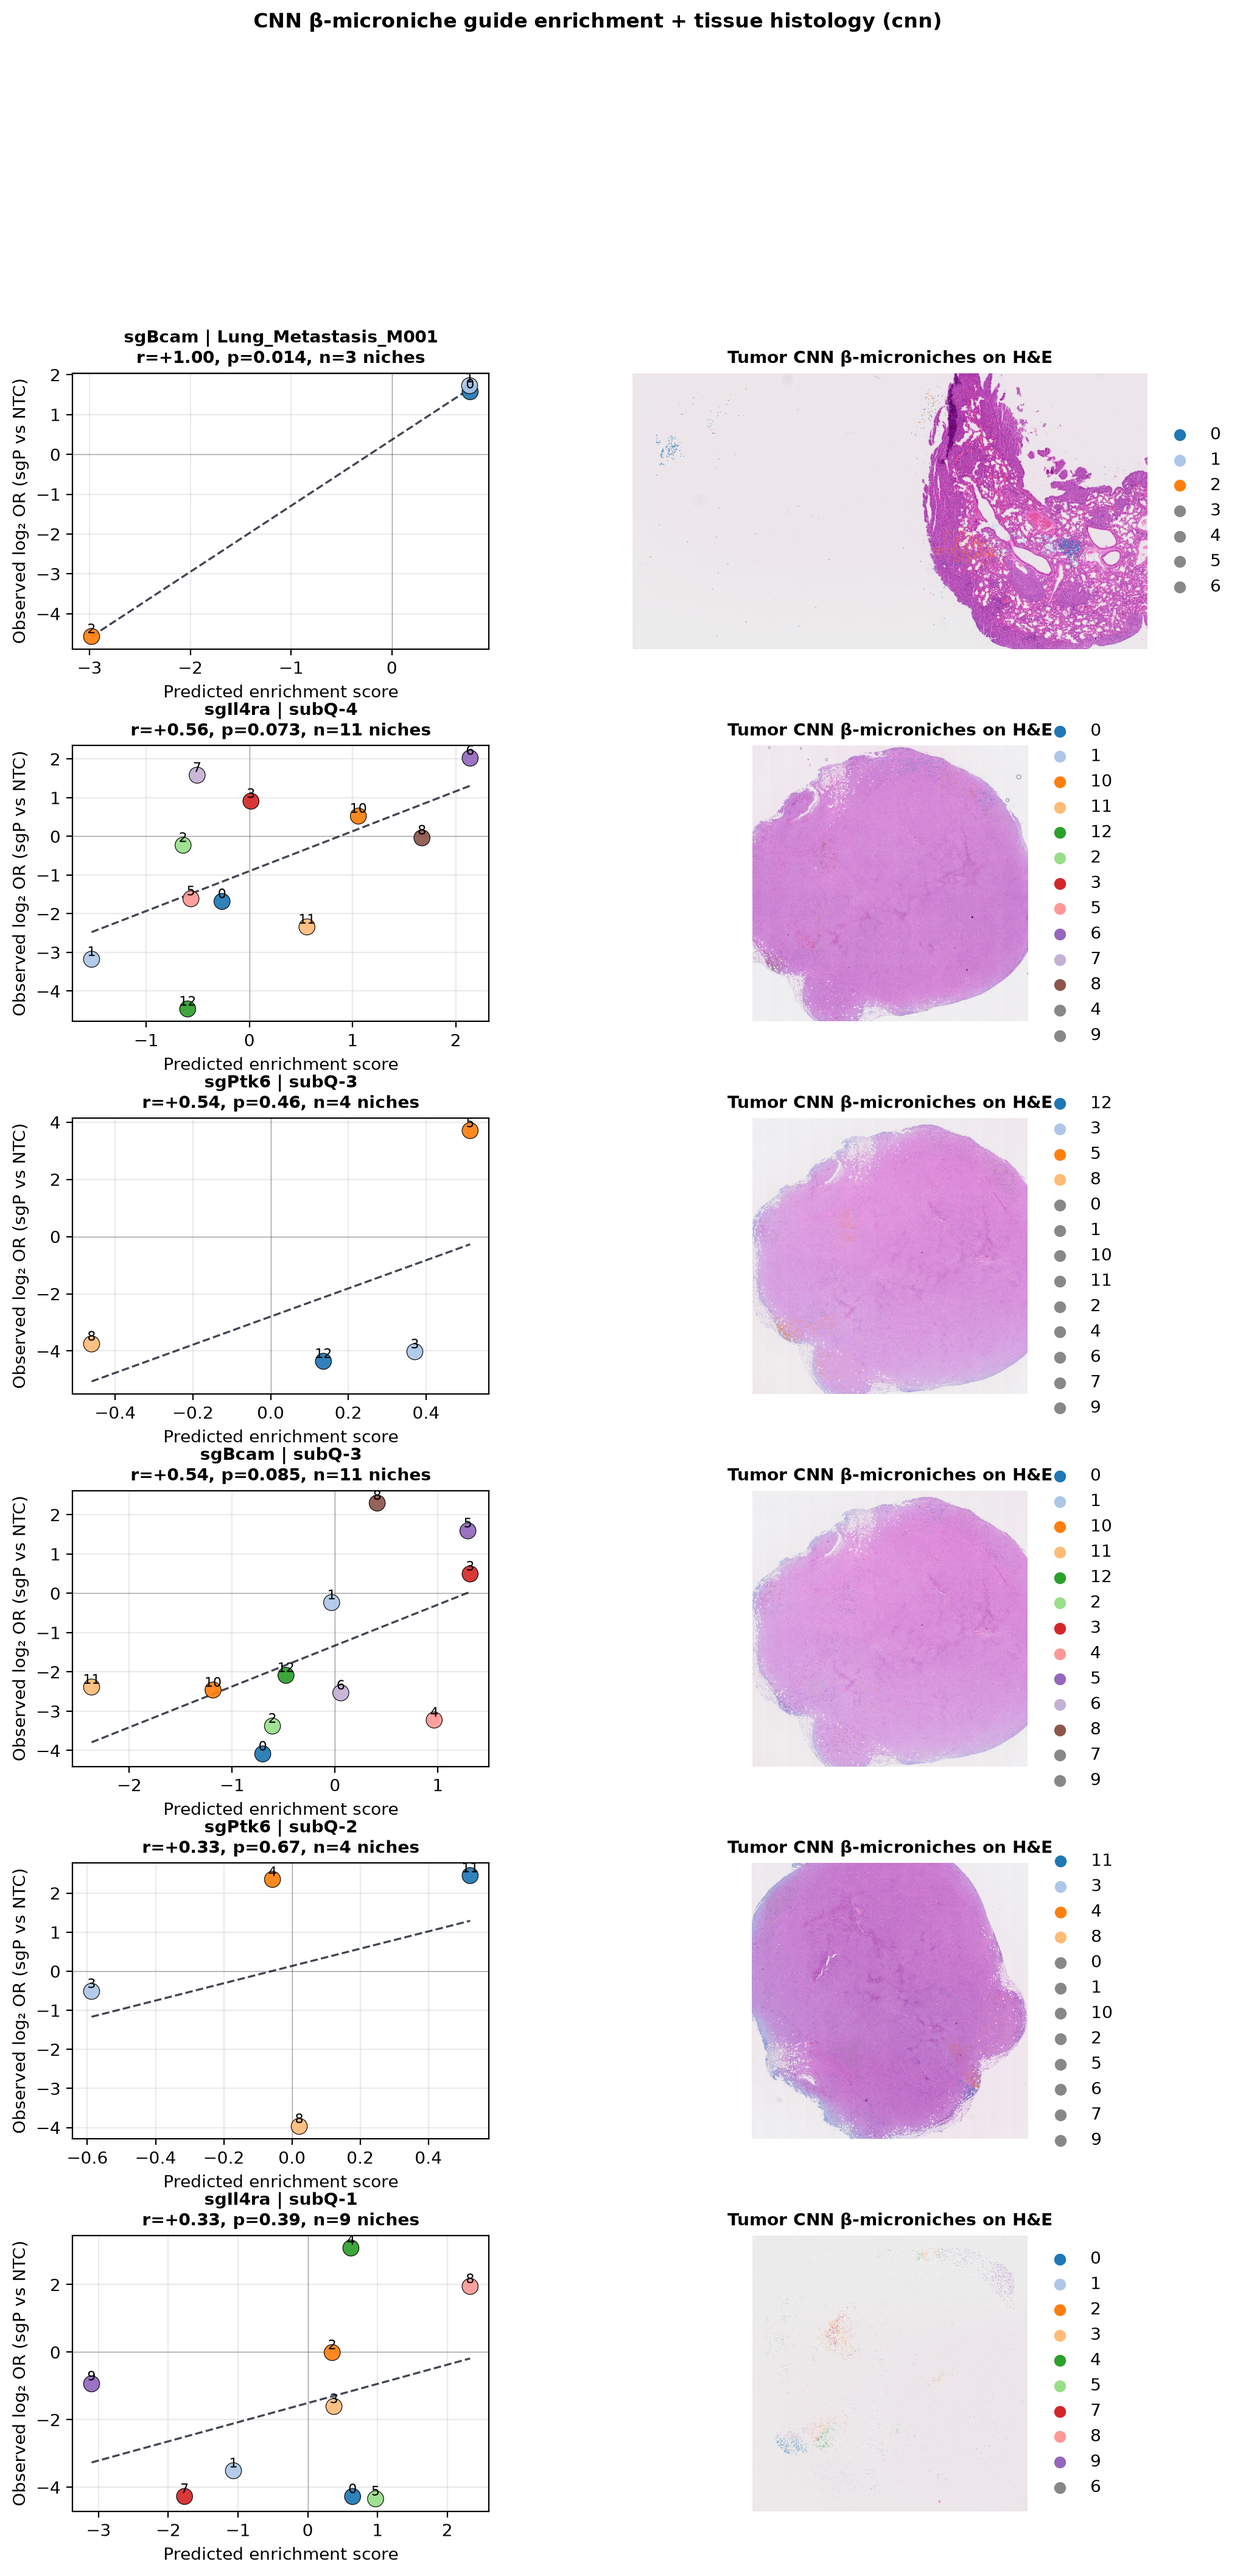
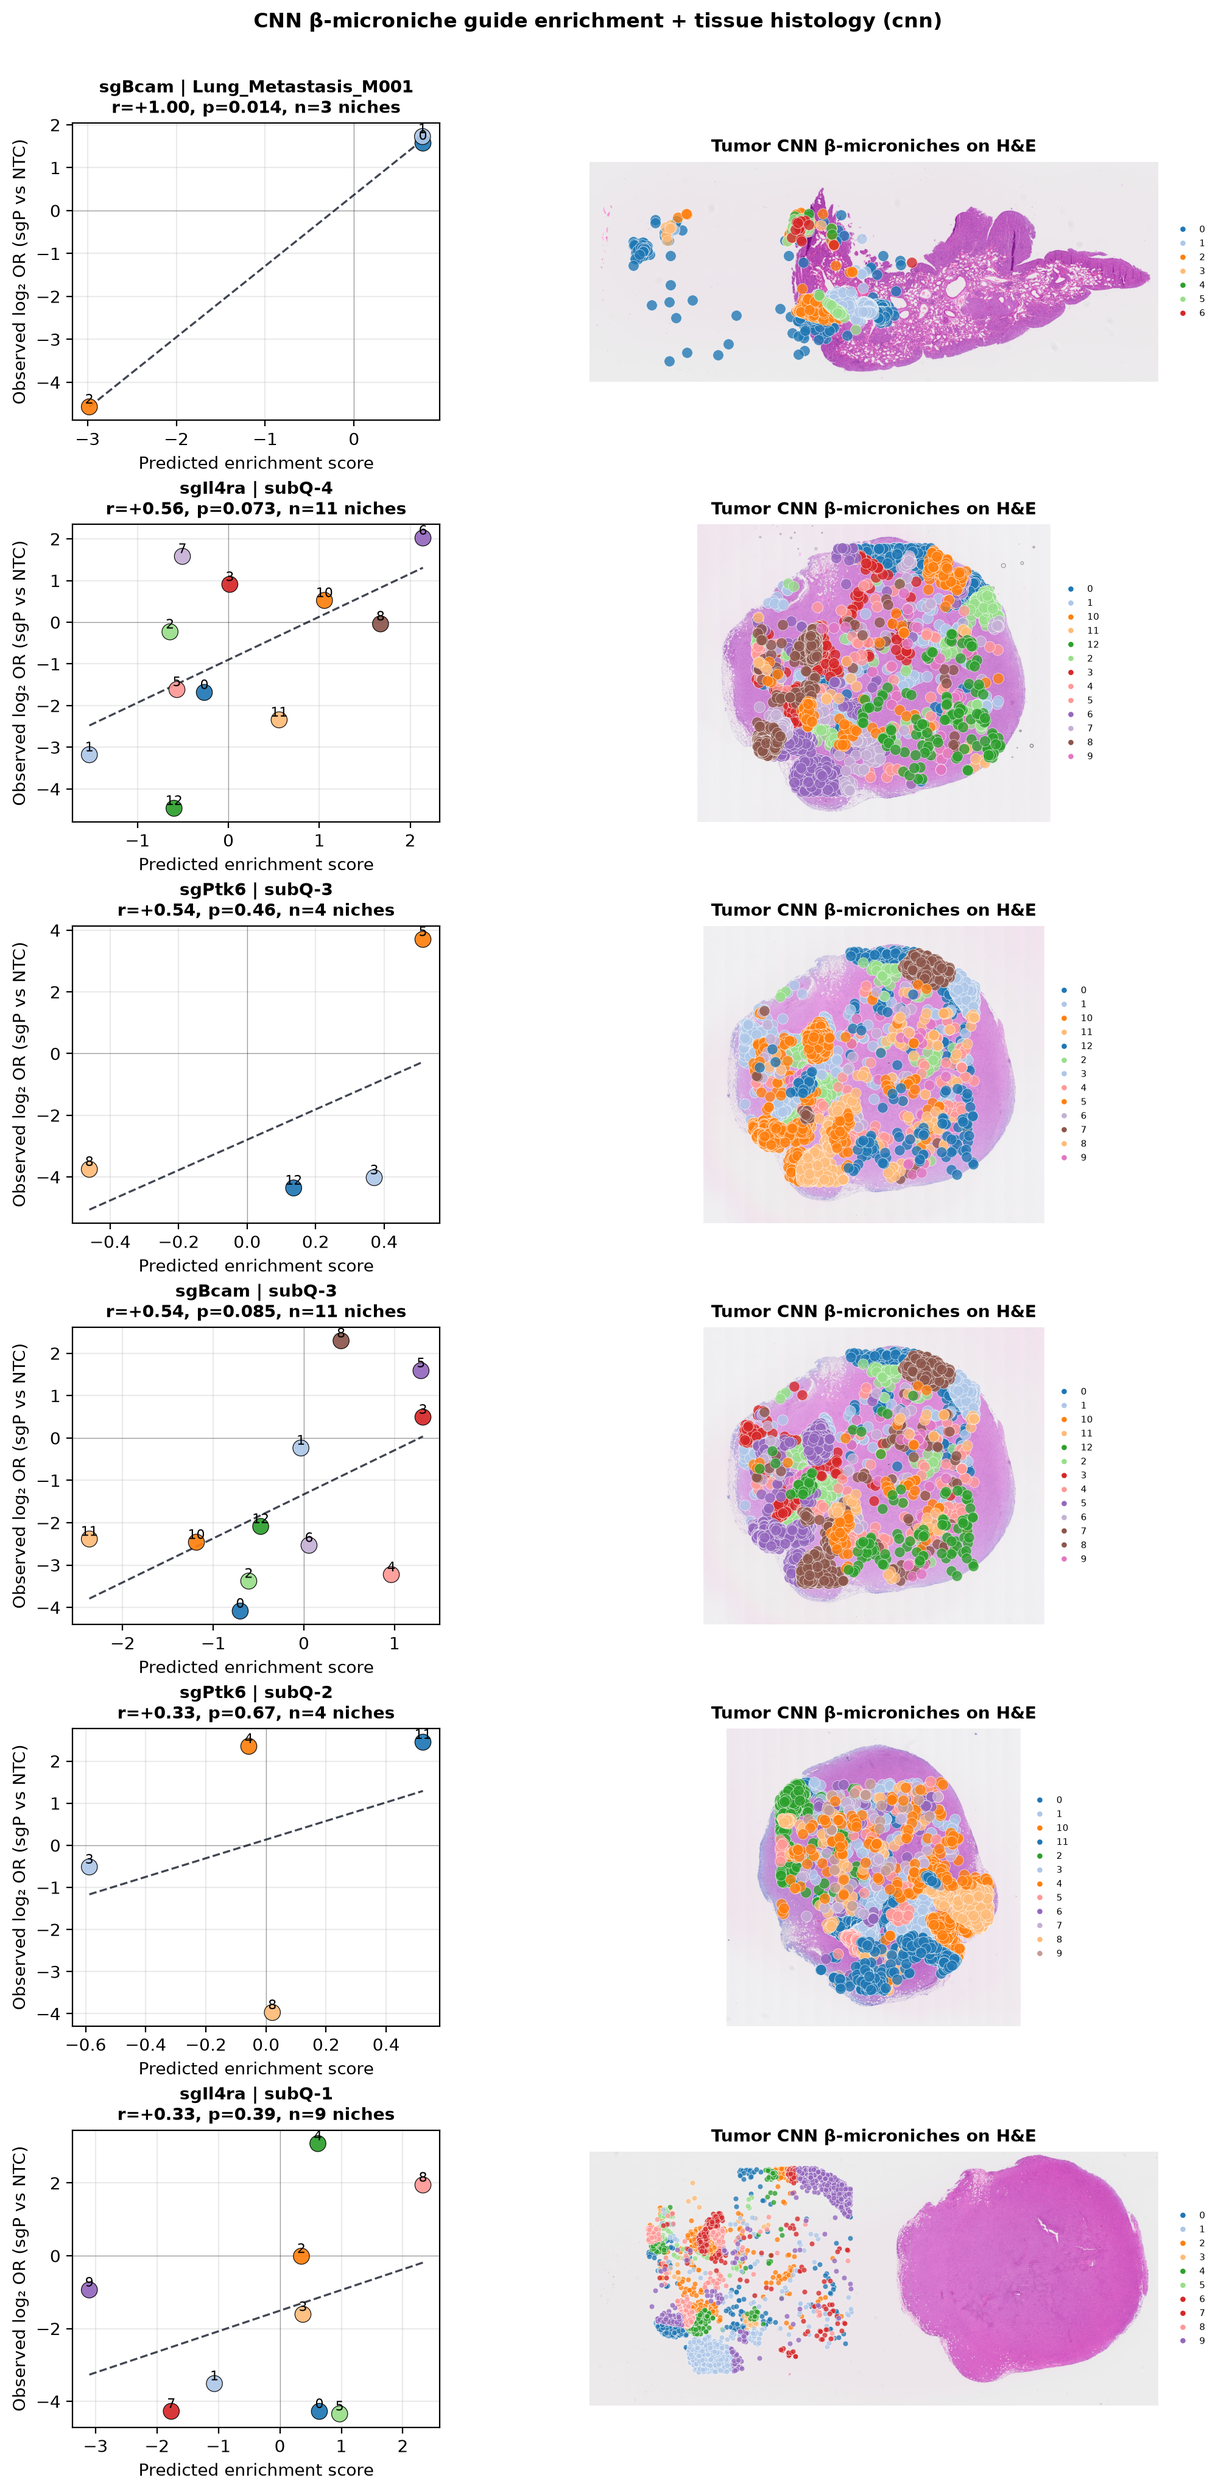
Fix microniche visibility on H&E enrichment scatter panels
Replace sc.pl.spatial with cell-sized matplotlib overlay on hires
coordinates, tune spot size by cell density, and resolve mc38 histology
paths to the shared analysis/mc38_visiumhd download location.

diff --git a/analysis/spacseq_tardis_validation/scripts/spatial_histology.py b/analysis/spacseq_tardis_validation/scripts/spatial_histology.py
@@ -10,12 +10,12 @@ from pathlib import Path
 import pandas as pd
 import numpy as np
 import scanpy as sc
+import matplotlib.pyplot as plt
 from matplotlib.image import imread
 
 HERE = Path(__file__).resolve().parent
 ROOT = HERE.parent
-REPO = ROOT.parent.parent
-DEFAULT_MC38 = REPO / "analysis" / "mc38_visiumhd"
+DEFAULT_MC38 = (ROOT.parent / "mc38_visiumhd").resolve()
 DOWNLOAD_SCRIPT = DEFAULT_MC38 / "download_spac_data.py"
 
 LUNG_SLICES = {"Lung_Metastasis_M001", "Lung_Metastasis_M002", "Lung_Metastasis_M003"}
@@ -30,7 +30,7 @@ def raw_dir(mc38_dir: Path, slice_id: str) -> Path:
 
 
 def histology_paths(mc38_dir: Path, slice_id: str) -> tuple[Path, Path]:
-    base = raw_dir(mc38_dir, slice_id)
+    base = Path(mc38_dir).resolve() / slice_id / "raw" / "extracted"
     return base / "tissue_hires_image.png", base / "scalefactors_json.json"
 
 
@@ -46,6 +46,7 @@ def ensure_histology(
     skip_download: bool = False,
 ) -> Path:
     """Ensure tissue_hires_image.png + scalefactors exist; download raw zip if needed."""
+    mc38_dir = Path(mc38_dir).resolve()
     img, sf = histology_paths(mc38_dir, slice_id)
     if histology_ready(mc38_dir, slice_id):
         return img.parent
@@ -85,6 +86,7 @@ def attach_histology(
     img_key: str = "hires",
 ) -> sc.AnnData:
     """Populate adata.uns['spatial'] from SPAC portal raw_output bundle."""
+    mc38_dir = Path(mc38_dir).resolve()
     ensure_histology(slice_id, mc38_dir, skip_download=skip_download)
     img_path, sf_path = histology_paths(mc38_dir, slice_id)
     img = imread(img_path)
@@ -111,3 +113,77 @@ def tumor_adata_from_parquet(parquet_path: Path, slice_id: str) -> sc.AnnData:
     adata.obsm["spatial"] = df[["x", "y"]].to_numpy(dtype=np.float64)
     adata.obs["slice_id"] = slice_id
     return adata
+
+
+def hires_coords(adata: sc.AnnData, library_id: str) -> np.ndarray:
+    scalef = float(adata.uns["spatial"][library_id]["scalefactors"]["tissue_hires_scalef"])
+    return adata.obsm["spatial"].astype(np.float64) * scalef
+
+
+def default_spot_size(adata: sc.AnnData, library_id: str) -> float:
+    sf = adata.uns["spatial"][library_id]["scalefactors"]
+    scalef = float(sf["tissue_hires_scalef"])
+    diam_hires = float(sf.get("spot_diameter_fullres", 50.0)) * scalef
+    density = max(adata.n_obs, 1)
+    base = max(diam_hires * 1.6, 2.5)
+    scale = float(np.clip((2200.0 / density) ** 0.35, 0.45, 1.25))
+    return float(np.clip((base * scale) ** 2, 10.0, 90.0))
+
+
+def plot_microniche_on_he(
+    adata: sc.AnnData,
+    color_key: str,
+    ax,
+    library_id: str,
+    palette: dict[str, object],
+    *,
+    img_alpha: float = 1.0,
+    spot_size: float | None = None,
+    spot_alpha: float = 0.78,
+    edgecolor: str = "white",
+    edge_width: float = 0.25,
+    title: str = "",
+    legend: bool = True,
+    legend_fontsize: float = 6.0,
+) -> None:
+    """Draw H&E background with visible cell-level microniche overlay."""
+    lib = adata.uns["spatial"][library_id]
+    img = lib["images"]["hires"]
+    xy = hires_coords(adata, library_id)
+    size = spot_size if spot_size is not None else default_spot_size(adata, library_id)
+
+    ax.imshow(img, origin="upper", interpolation="bilinear", alpha=img_alpha, zorder=0)
+    labels = adata.obs[color_key].astype(str)
+    for lab in labels.unique():
+        if lab in ("nan", "unassigned"):
+            continue
+        mask = labels == lab
+        ax.scatter(
+            xy[mask, 0],
+            xy[mask, 1],
+            s=size,
+            c=[palette.get(lab, "#888888")],
+            alpha=spot_alpha,
+            edgecolors=edgecolor,
+            linewidths=edge_width,
+            rasterized=True,
+            zorder=2,
+        )
+    ax.set_aspect("equal")
+    ax.axis("off")
+    if title:
+        ax.set_title(title, fontsize=10, fontweight="bold")
+    if legend:
+        handles = []
+        for lab in sorted(l for l in labels.unique() if l not in ("nan", "unassigned")):
+            handles.append(
+                plt.Line2D(
+                    [0], [0], marker="o", color="w", markerfacecolor=palette.get(lab, "#888888"),
+                    markersize=max(3.0, legend_fontsize * 0.75), label=lab,
+                )
+            )
+        if handles:
+            ax.legend(
+                handles=handles, loc="center left", bbox_to_anchor=(1.02, 0.5),
+                fontsize=legend_fontsize, frameon=False, borderaxespad=0.0,
+            )

diff --git a/analysis/spacseq_tardis_validation/scripts/nb_viz.py b/analysis/spacseq_tardis_validation/scripts/nb_viz.py
@@ -425,11 +425,10 @@ def plot_cnn_enrichment_scatter_with_histology(
     mc38_dir=None,
     slice_filter: str | None = None,
     perturb_filter: str | None = None,
-    spot_size: float = 1.4,
+    spot_size: float | None = None,
     figsize: tuple[float, float] | None = None,
 ) -> tuple[plt.Figure, np.ndarray]:
-    """Side-by-side enrichment scatter and sc.pl.spatial microniche maps on H&E."""
-    import scanpy as sc
+    """Side-by-side enrichment scatter and microniche maps on H&E."""
     from pathlib import Path
 
     import spatial_histology as sh
@@ -455,7 +454,7 @@ def plot_cnn_enrichment_scatter_with_histology(
         n, 2,
         figsize=figsize or (11.5, 3.8 * n),
         squeeze=False,
-        gridspec_kw={"width_ratios": [1.05, 1.35], "wspace": 0.28, "hspace": 0.35},
+        gridspec_kw={"width_ratios": [1.0, 1.55], "wspace": 0.32, "hspace": 0.35},
     )
 
     for i, (_, row) in enumerate(pairs.iterrows()):
@@ -509,30 +508,27 @@ def plot_cnn_enrichment_scatter_with_histology(
         else:
             ct = pool.copy()
         ct.obs["microniche"] = ct.obs["cnn_leiden"].astype(str).str.split("|").str[-1]
-        order = [str(x).split("|")[-1] for x in sub["niche"].astype(str)]
-        extra = sorted(set(ct.obs["microniche"].astype(str)) - set(order))
-        ct.obs["microniche"] = pd.Categorical(ct.obs["microniche"], categories=order + extra, ordered=True)
-        palette = {lab.split("|")[-1]: colors.get(lab, "#888888") for lab in colors}
-        for lab in ct.obs["microniche"].astype(str).unique():
-            palette.setdefault(lab, "#888888")
+        niche_colors = _microniche_color_map(ct.obs["cnn_leiden"].astype(str))
+        palette = {
+            str(n).split("|")[-1]: niche_colors.get(str(n), "#888888")
+            for n in ct.obs["cnn_leiden"].astype(str).unique()
+        }
+        for lab in colors:
+            palette[str(lab).split("|")[-1]] = colors[lab]
 
         try:
             sh.attach_histology(ct, sl, mc38)
-            sc.pl.spatial(
+            sh.plot_microniche_on_he(
                 ct,
-                color="microniche",
-                library_id=sl,
-                img_key="hires",
-                ax=ax_sp,
-                show=False,
-                size=spot_size,
-                alpha=0.88,
-                palette=palette,
-                title="",
-                legend_loc="right margin",
-                frameon=False,
+                "microniche",
+                ax_sp,
+                sl,
+                palette,
+                spot_size=spot_size,
+                title="Tumor CNN β-microniches on H&E",
+                legend=True,
+                legend_fontsize=5.5,
             )
-            ax_sp.set_title(f"Tumor CNN β-microniches on H&E", fontsize=10, fontweight="bold")
         except Exception as exc:
             ax_sp.text(0.5, 0.5, f"Histology unavailable\n{exc}", ha="center", va="center", transform=ax_sp.transAxes)
             ax_sp.axis("off")

diff --git a/analysis/spacseq_tardis_validation/scripts/23_cnn_microniche_enrichment.py b/analysis/spacseq_tardis_validation/scripts/23_cnn_microniche_enrichment.py
@@ -335,7 +335,7 @@ def main() -> None:
     ap.add_argument("--slices", nargs="+", default=SUBQ_SLICES + [LUNG_SLICE])
     ap.add_argument("--seed-betadata-dir", type=Path, default=ROOT / "runs/baseline_pooled_seed")
     ap.add_argument("--seed-pred-dir", type=Path, default=ROOT / "results/predictions_tuned")
-    ap.add_argument("--mc38-dir", type=Path, default=ROOT.parent / "mc38_visiumhd")
+    ap.add_argument("--mc38-dir", type=Path, default=(ROOT.parent / "mc38_visiumhd").resolve())
     ap.add_argument("--leiden-resolution", type=float, default=cmu.DEFAULT_LEIDEN_KW["resolution"])
     ap.add_argument("--spatial-weight", type=float, default=cmu.DEFAULT_LEIDEN_KW["spatial_weight"])
     ap.add_argument("--min-ntc", type=int, default=2, help="Min NTC tumor cells per niche (obs + pred)")

diff --git a/analysis/mc38_visiumhd/download_spac_data.py b/analysis/mc38_visiumhd/download_spac_data.py
@@ -1,9 +1,9 @@
 #!/usr/bin/env python3
-    """Download SPAC-seq Visium HD datasets from spac.pku-genomics.org.
+"""Download SPAC-seq Visium HD datasets from spac.pku-genomics.org.
 
-    The ``raw`` component contains ``tissue_hires_image.png`` and
-    ``scalefactors_json.json`` used by ``spatial_histology.attach_histology``.
-    """
+The ``raw`` component contains ``tissue_hires_image.png`` and
+``scalefactors_json.json`` used by ``spatial_histology.attach_histology``.
+"""
 
 from __future__ import annotations
 
